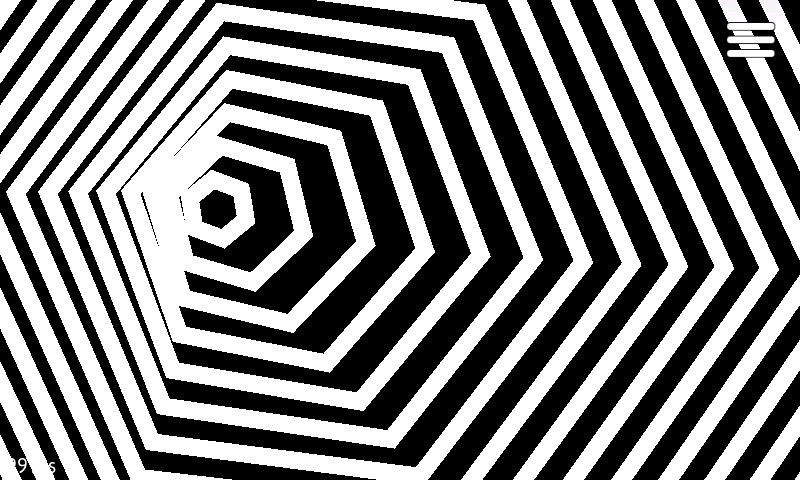
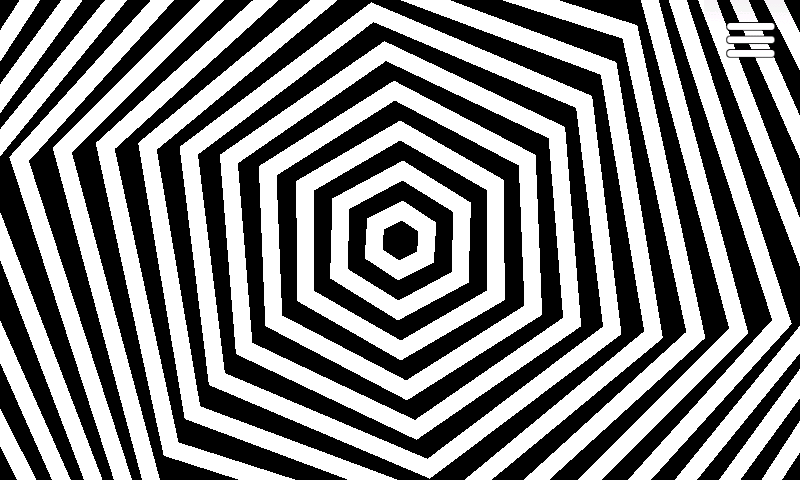
Capture clean framebuffer previews for every screen

diff --git a/framebuffer_demo/TouchGFX/simulator/previews.hpp b/framebuffer_demo/TouchGFX/simulator/previews.hpp
@@ -1,0 +1,56 @@
+#pragma once
+
+#include <gui/common/frontendheap.hpp>
+#include <touchgfx/events/ClickEvent.hpp>
+#include <touchgfx/events/DragEvent.hpp>
+#include <SDL2/SDL_surface.h>
+#include <fstream>
+
+// Capture representative views separately from the stress-test input sequences.
+inline bool captureSimulatorPreviews(touchgfx::HALSDL2& hal)
+{
+    auto& app = FrontendHeap::getInstance().app;
+    std::ofstream log("preview-captures.log");
+    if (!log) return false;
+    const auto frame = [&hal]() { hal.vSync(); hal.backPorchExited(); hal.frontPorchEntered(); };
+    const char* names[] = {"home.bmp", "torus.bmp", "smoke.bmp", "shapes.bmp"};
+    for (int screen = 0; screen < 4; ++screen)
+    {
+        switch (screen)
+        {
+        case 0: app.gotohomeScreenNoTransition(); break;
+        case 1: app.gotoTorusScreenNoTransition(); break;
+        case 2: app.gotoSmokeScreenNoTransition(); break;
+        default: app.gotoShapesScreenNoTransition(); break;
+        }
+        frame(); frame();
+        if (screen == 1) static_cast<TorusView*>(app.getCurrentScreen())->setQuality(Quality::HIGH);
+        if (screen == 2) static_cast<SmokeView*>(app.getCurrentScreen())->setQuality(Quality::HIGH);
+        if (screen == 1) static_cast<TorusView*>(app.getCurrentScreen())->setPerformanceCounterVisible(false);
+        if (screen == 2) static_cast<SmokeView*>(app.getCurrentScreen())->setPerformanceCounterVisible(false);
+        if (screen == 3) static_cast<ShapesView*>(app.getCurrentScreen())->setPerformanceCounterVisible(false);
+        const int ticks = screen == 2 ? 480 : 120;
+        for (int tick = 0; tick < ticks; ++tick)
+        {
+            // A slight tilt keeps the torus opening clearly visible.
+            if (screen == 1 && tick == 0)
+            {
+                app.handleClickEvent(touchgfx::ClickEvent(touchgfx::ClickEvent::PRESSED, 400, 240));
+                app.handleDragEvent(touchgfx::DragEvent(touchgfx::DragEvent::DRAGGED, 400, 240, 404, 246));
+                app.handleClickEvent(touchgfx::ClickEvent(touchgfx::ClickEvent::RELEASED, 404, 246));
+            }
+            frame();
+        }
+        app.draw();
+        auto* pixels = hal.lockFrameBuffer();
+        SDL_Surface* image = SDL_CreateRGBSurfaceFrom(pixels, touchgfx::HAL::DISPLAY_WIDTH,
+            touchgfx::HAL::DISPLAY_HEIGHT, 16, touchgfx::HAL::lcd().framebufferStride(),
+            0xf800, 0x07e0, 0x001f, 0);
+        const bool saved = image && SDL_SaveBMP(image, names[screen]) == 0;
+        if (image) SDL_FreeSurface(image);
+        hal.unlockFrameBuffer();
+        if (!saved) { log << "FAIL: " << names[screen] << "\n"; return false; }
+    }
+    log << "PASS: Home, Torus, Smoke and Shapes preview captures\n";
+    return true;
+}

diff --git a/framebuffer_demo/TouchGFX/simulator/main.cpp b/framebuffer_demo/TouchGFX/simulator/main.cpp
@@ -7,6 +7,7 @@
 #include <stdlib.h>
 #include <simulator/mainBase.hpp>
 #include "selftest.hpp"
+#include "previews.hpp"
 #include <cstring>
 
 //#include <touchgfx/canvas_widget_renderer/CanvasWidgetRenderer.hpp>
@@ -35,10 +36,16 @@ int CALLBACK WinMain(HINSTANCE hInstance, HINSTANCE hPrevInstance, LPSTR lpCmdLi
     touchgfx::HAL& hal = touchgfx::touchgfx_generic_init<touchgfx::HALSDL2>(dma, lcd, tc, SIM_WIDTH, SIM_HEIGHT, 0, 0);
 
     bool selfTest = false;
+    bool capturePreviews = false;
     for (int i = 1; i < argc; ++i)
+    {
         if (std::strcmp(argv[i], "--self-test") == 0) selfTest = true;
-    if (selfTest) static_cast<touchgfx::HALSDL2&>(hal).setWindowVisible(false, false);
+        if (std::strcmp(argv[i], "--capture-previews") == 0) capturePreviews = true;
+    }
+    if (selfTest || capturePreviews) static_cast<touchgfx::HALSDL2&>(hal).setWindowVisible(false, false);
     setupSimulator(argc, argv, hal);
+    if (capturePreviews)
+        return captureSimulatorPreviews(static_cast<touchgfx::HALSDL2&>(hal)) ? EXIT_SUCCESS : EXIT_FAILURE;
     if (selfTest)
         return runSimulatorSelfTest(static_cast<touchgfx::HALSDL2&>(hal)) ? EXIT_SUCCESS : EXIT_FAILURE;
 

diff --git a/framebuffer_demo/tools/export_previews.py b/framebuffer_demo/tools/export_previews.py
@@ -1,0 +1,9 @@
+"""Export unmodified simulator framebuffer captures to the project gallery."""
+from pathlib import Path
+from PIL import Image
+
+ROOT = Path(__file__).resolve().parents[1]
+for screen in ("home", "torus", "smoke", "shapes"):
+    source = ROOT / "TouchGFX" / "build" / "Release" / "bin" / f"{screen}.bmp"
+    Image.open(source).save(ROOT / "doc" / f"{screen}.png")
+print("Exported Home, Torus, Smoke and Shapes previews.")

diff --git a/framebuffer_demo/TouchGFX/gui/include/gui/smoke_screen/smokeview.hpp b/framebuffer_demo/TouchGFX/gui/include/gui/smoke_screen/smokeview.hpp
@@ -26,6 +26,13 @@ public:
     void setQuality(Quality value) override;
 
 
+    //! Control the optional diagnostic HUD, including clean gallery captures.
+    void setPerformanceCounterVisible(bool visible)
+    {
+        _fpsText.setVisible(visible);
+        _fpsNumber.setVisible(visible);
+    }
+
 protected:
 
     void handleTickEvent() override;

diff --git a/framebuffer_demo/TouchGFX/gui/include/gui/torus_screen/torusview.hpp b/framebuffer_demo/TouchGFX/gui/include/gui/torus_screen/torusview.hpp
@@ -25,6 +25,13 @@ public:
 	void setQuality(Quality value) override;
 
 
+    //! Control the optional diagnostic HUD, including clean gallery captures.
+    void setPerformanceCounterVisible(bool visible)
+    {
+        _fpsText.setVisible(visible);
+        _fpsNumber.setVisible(visible);
+    }
+
 protected:
 
     void handleTickEvent() override;

diff --git a/framebuffer_demo/TouchGFX/gui/include/gui/shapes_screen/shapesview.hpp b/framebuffer_demo/TouchGFX/gui/include/gui/shapes_screen/shapesview.hpp
@@ -20,6 +20,13 @@ public:
 
     void handleTickEvent() override;
 
+    //! Control the optional diagnostic HUD, including clean gallery captures.
+    void setPerformanceCounterVisible(bool visible)
+    {
+        _fpsText.setVisible(visible);
+        _fpsNumber.setVisible(visible);
+    }
+
 private:
 
     void updateFPS(uint8_t fps);

diff --git a/framebuffer_demo/README.md b/framebuffer_demo/README.md
@@ -5,12 +5,26 @@ TouchGFX 4.17 demo for the STM32F769I Discovery board, with a Windows simulator.
 The three effects are a fluid smoke simulation, an environment-mapped 3D torus,
 and animated polygon rings that follow touch input.
 
-![Fluid smoke simulation](doc/smoke.png)
+## Screens
 
-[Torus preview](doc/torus.png) · [Polygon rings preview](doc/shapes.png)
+### Home
 
-These snapshots come from automated simulator checks; displayed FPS values are
-not performance measurements.
+![Home screen with the three effect choices](doc/home.png)
+
+### Torus
+
+![Reflective torus with its opening visible](doc/torus.png)
+
+### Smoke
+
+![Fluid smoke after the initial logo develops into flowing curls](doc/smoke.png)
+
+### Shapes
+
+![Centered polygon rings following touch input](doc/shapes.png)
+
+The gallery captures hide the optional diagnostic FPS counters. They show the
+actual simulator framebuffer without image retouching.
 
 ## First-time setup
 
@@ -82,3 +96,10 @@ The simulator test runs in a temporary hidden window and exits. It builds into
 snapshots there. Use `-Configuration Release` to validate the optimized build.
 See [the review and modernization plan](docs/modernization.md) for fixed bugs,
 remaining renderer work and the staged upgrade to current TouchGFX.
+
+## Refresh the screenshots
+
+After completing the first-time setup, run `tools/capture-previews.ps1`. It builds
+the simulator, captures all four screens and exports `doc/*.png` with Pillow
+(`python -m pip install Pillow`). Preview captures use a separate scenario from
+the input stress tests, keeping the torus opening visible and allowing smoke to develop.

diff --git a/README.md b/README.md
@@ -34,7 +34,7 @@ The demo includes native regression tests and a simulator self-test for screen
 transitions, input lifecycle and clipped redraws. It currently uses **TouchGFX
 4.17.0**; the chess clock uses **4.26.1**. Each project keeps its own SDK and
 generated output local. See the [demo guide](framebuffer_demo/README.md) for setup
-and the planned upgrade. Simulator preview FPS values are not performance measurements.
+and the planned upgrade. The project guide includes a separate capture of each demo screen.
 
 ## Open and build
 
